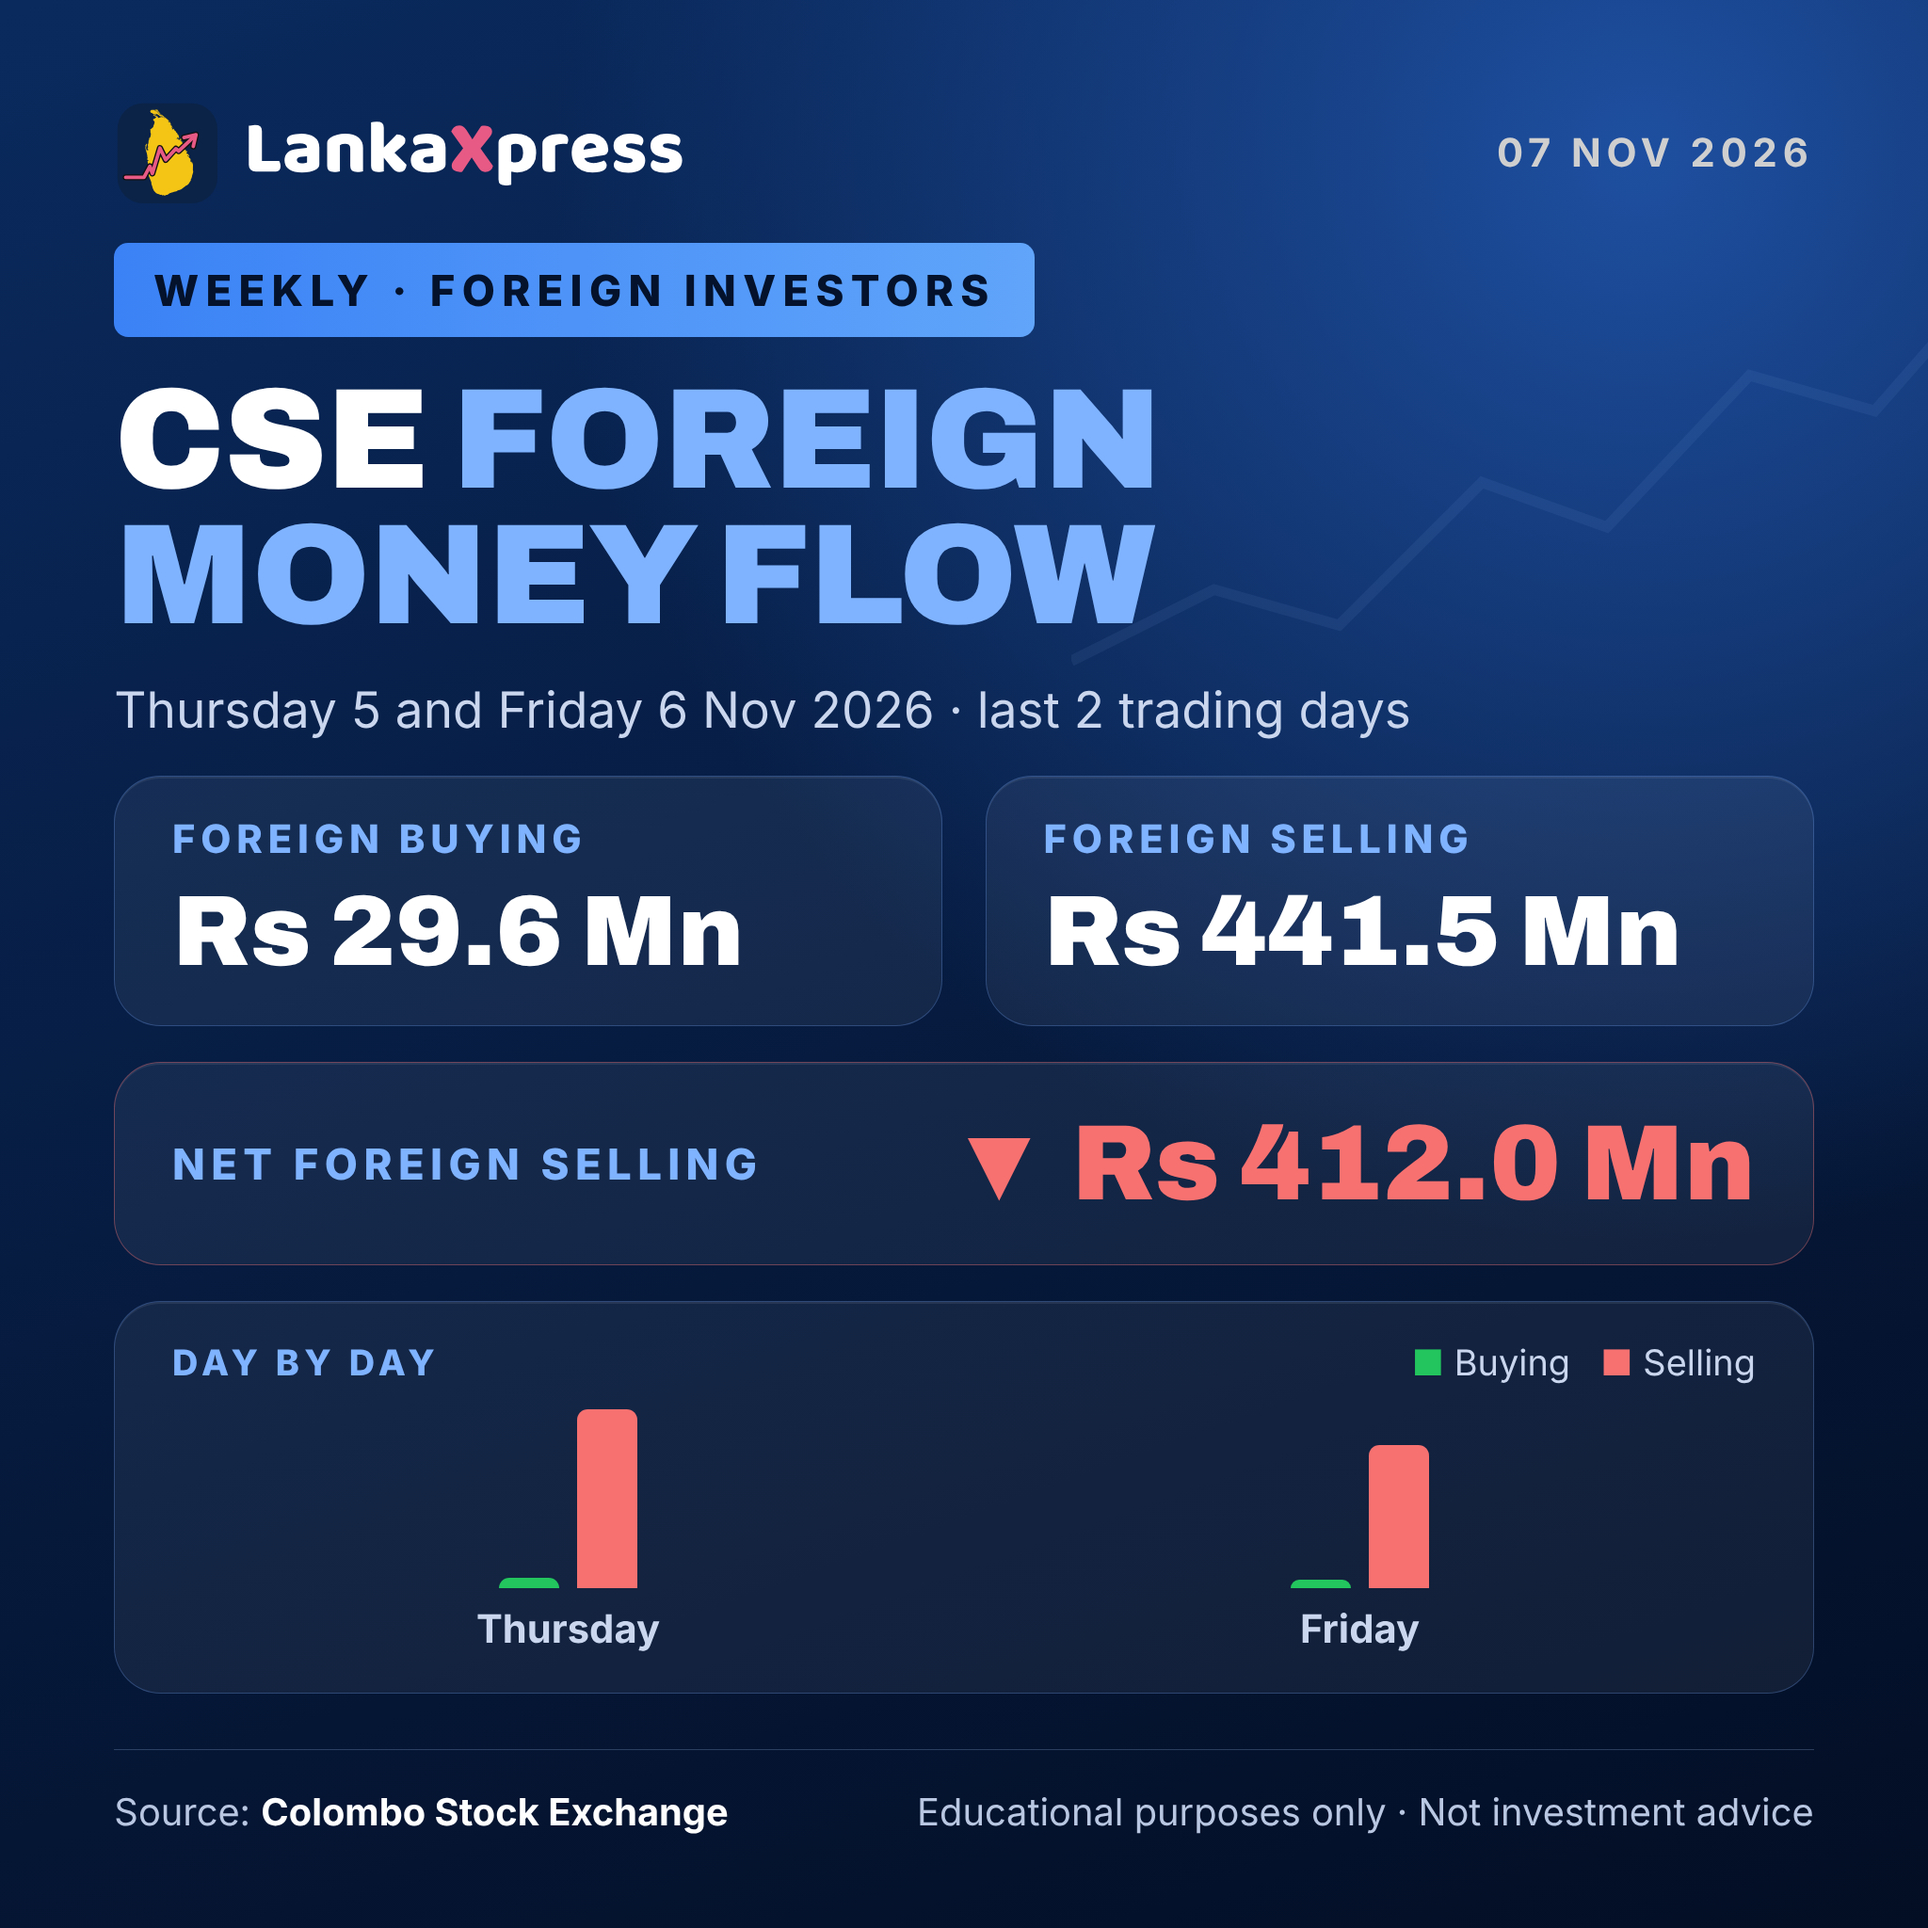
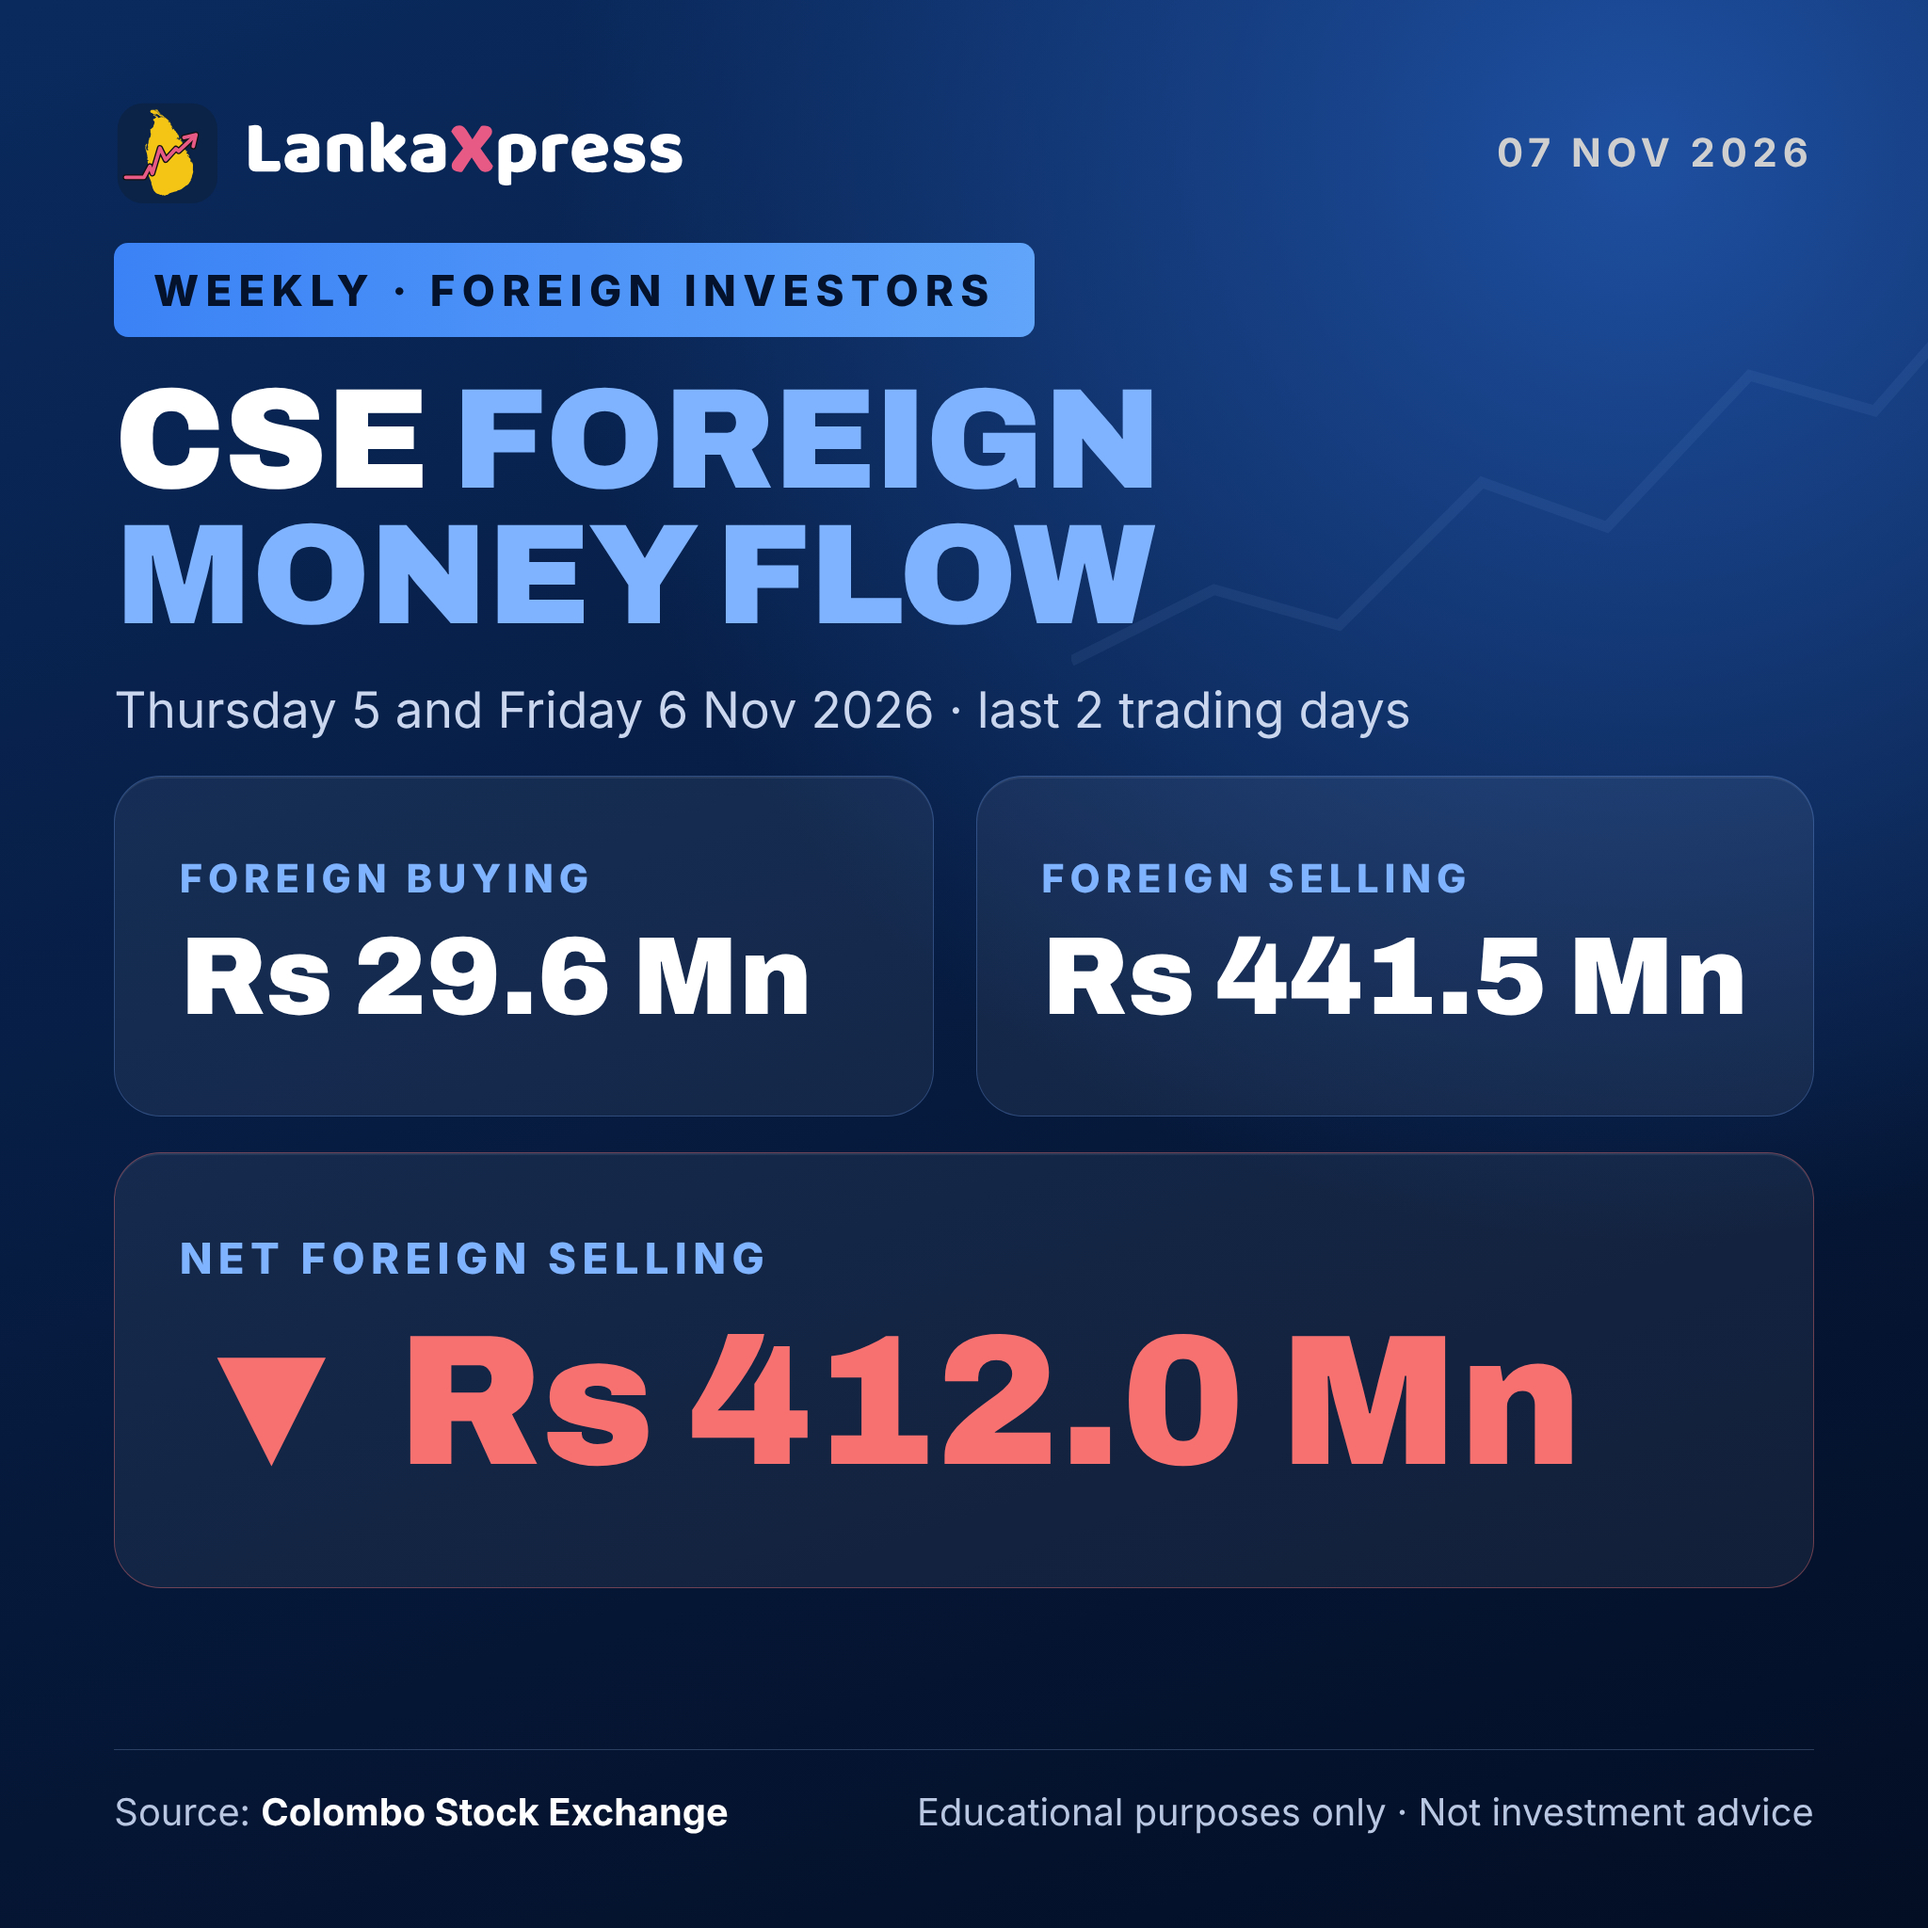
Foreign weekly totals-only layout; 7 Nov card queued
Claude-Session: https://claude.ai/code/session_01VaiwC8zkTmVbXbNyuV3YEZ

diff --git a/templates/foreign_weekly_gen.py b/templates/foreign_weekly_gen.py
@@ -29,6 +29,11 @@ def card(d,out):
             hb=max(4,int(100*b/mx)); hs=max(4,int(100*s/mx))
             cols+=f'<div style="flex:1;display:flex;flex-direction:column;align-items:center;gap:10px"><div style="height:100px;display:flex;align-items:flex-end;gap:10px"><div style="width:34px;height:{hb}px;background:#22C55E;border-radius:6px 6px 0 0"></div><div style="width:34px;height:{hs}px;background:#F87171;border-radius:6px 6px 0 0"></div></div><div style="font-size:22px;font-weight:700;color:#C9D6EE">{n}</div></div>'
         chart=f'<div style="{box};padding:22px 32px"><div style="display:flex;justify-content:space-between;align-items:center"><span style="font-size:20px;font-weight:800;letter-spacing:.14em;color:#7FB2FF">DAY BY DAY</span><span style="font-size:20px;color:#C9D6EE"><b style="color:#22C55E">■</b> Buying &nbsp; <b style="color:#F87171">■</b> Selling</span></div><div style="display:flex;margin-top:14px">{cols}</div></div>'
+    big=not rows
+    P='44px 36px' if big else '22px 32px'
+    NS='62px' if big else '56px'
+    NN='104px' if big else '60px'
+    ND='flex-direction:column;align-items:flex-start;gap:6px' if big else 'justify-content:space-between;align-items:center'
     html=f'''<!doctype html><html><head><meta charset="utf-8"><style>@font-face{{font-family:Archivo;src:url(archivo-latin-800-normal.woff2);font-weight:800}}@font-face{{font-family:Archivo;src:url(archivo-latin-900-normal.woff2);font-weight:900}}body{{margin:0}}</style></head><body>
 <div style="width:1080px;height:1080px;box-sizing:border-box;padding:56px 64px 52px;background:radial-gradient(circle at 85% 8%,#1E4FA0 0%,rgba(30,79,160,0) 45%),linear-gradient(160deg,#0A2A5E 0%,#061A3D 55%,#030E24 100%);font-family:Inter,system-ui,sans-serif;color:#fff;display:flex;flex-direction:column;gap:20px;position:relative;overflow:hidden">
 <svg style="position:absolute;right:-40px;top:120px;opacity:.07" width="520" height="300" viewBox="0 0 520 300"><polyline points="0,250 80,210 150,230 230,150 300,175 380,90 450,110 520,30" fill="none" stroke="#9CC3FF" stroke-width="6"/></svg>
@@ -37,10 +42,10 @@ def card(d,out):
 <div style="font-family:Archivo,sans-serif;font-weight:900;font-size:80px;line-height:.95;letter-spacing:-.01em">CSE <span style="color:#7FB2FF">FOREIGN</span><br><span style="color:#7FB2FF">MONEY FLOW</span></div>
 <div style="font-size:28px;color:#C9D6EE">{d['sub']}</div>
 <div style="display:flex;gap:24px">
-<div style="flex:1;{box};padding:22px 32px"><div style="font-size:22px;font-weight:800;letter-spacing:.14em;color:#7FB2FF">FOREIGN BUYING</div><div style="font-family:Archivo;font-weight:900;font-size:56px;margin-top:8px">{fmt(d['buy'])}</div></div>
-<div style="flex:1;{box};padding:22px 32px"><div style="font-size:22px;font-weight:800;letter-spacing:.14em;color:#7FB2FF">FOREIGN SELLING</div><div style="font-family:Archivo;font-weight:900;font-size:56px;margin-top:8px">{fmt(d['sell'])}</div></div>
+<div style="flex:1;{box};padding:{P}"><div style="font-size:22px;font-weight:800;letter-spacing:.14em;color:#7FB2FF">FOREIGN BUYING</div><div style="font-family:Archivo;font-weight:900;font-size:{NS};white-space:nowrap;margin-top:8px">{fmt(d['buy'])}</div></div>
+<div style="flex:1;{box};padding:{P}"><div style="font-size:22px;font-weight:800;letter-spacing:.14em;color:#7FB2FF">FOREIGN SELLING</div><div style="font-family:Archivo;font-weight:900;font-size:{NS};white-space:nowrap;margin-top:8px">{fmt(d['sell'])}</div></div>
 </div>
-<div style="{box};padding:22px 32px;display:flex;justify-content:space-between;align-items:center;border-color:{netc}66"><div style="font-size:24px;font-weight:800;letter-spacing:.14em;color:#7FB2FF">{netl}</div><div style="font-family:Archivo;font-weight:900;font-size:60px;color:{netc}">{'▲' if up else '▼'} {fmt(abs(net))}</div></div>
+<div style="{box};padding:{P};display:flex;{ND};border-color:{netc}66"><div style="font-size:24px;font-weight:800;letter-spacing:.14em;color:#7FB2FF">{netl}</div><div style="font-family:Archivo;font-weight:900;font-size:{NN};white-space:nowrap;color:{netc}">{'▲' if up else '▼'} {fmt(abs(net))}</div></div>
 {rows}
 <div style="margin-top:auto;border-top:1px solid rgba(160,190,240,.25);padding-top:22px;display:flex;justify-content:space-between;font-size:21px;color:#B9C7E2"><span>Source: <b style="color:#fff">{d.get("src","Colombo Stock Exchange")}</b></span><span>Educational purposes only · Not investment advice</span></div>
 </div></body></html>'''
